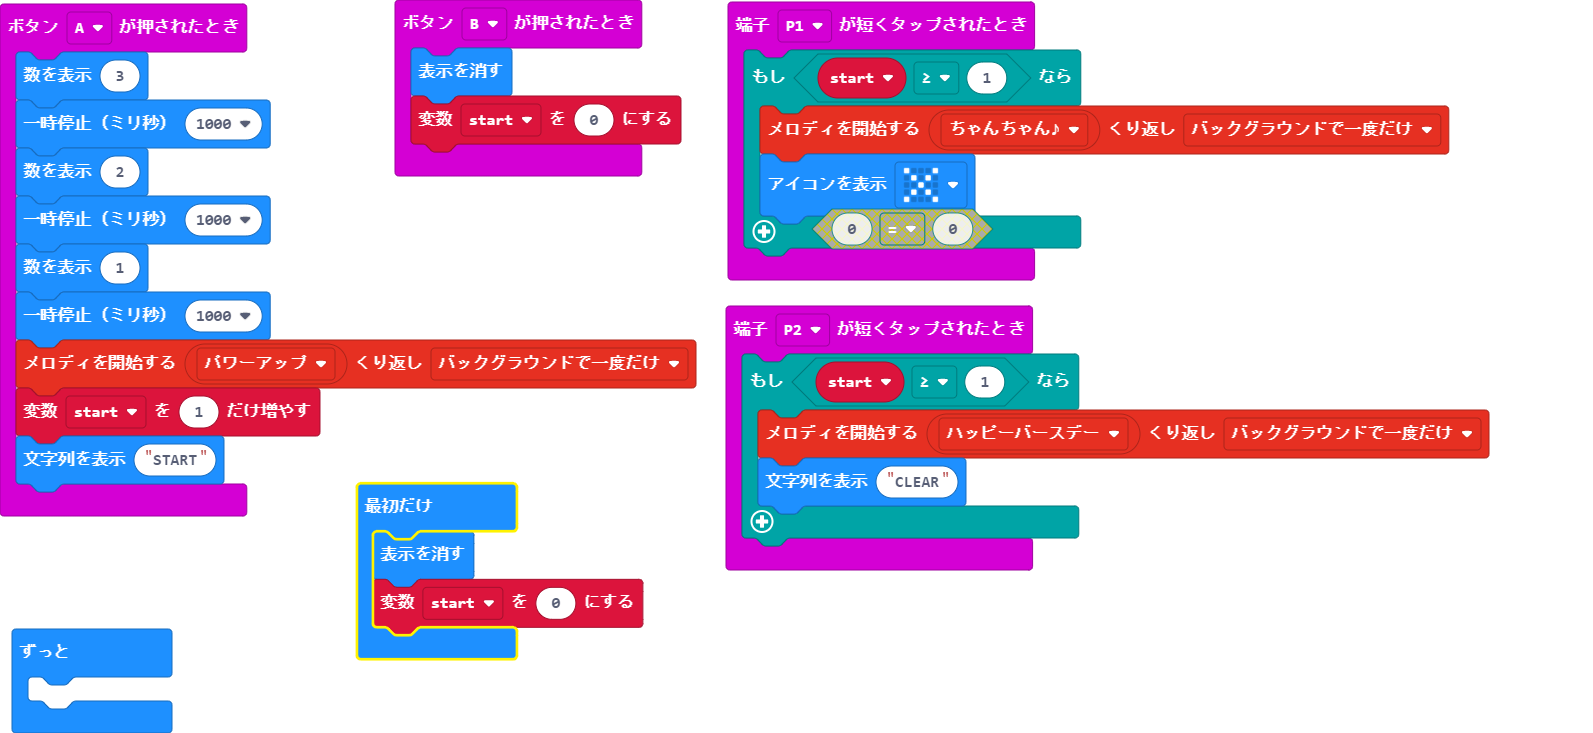
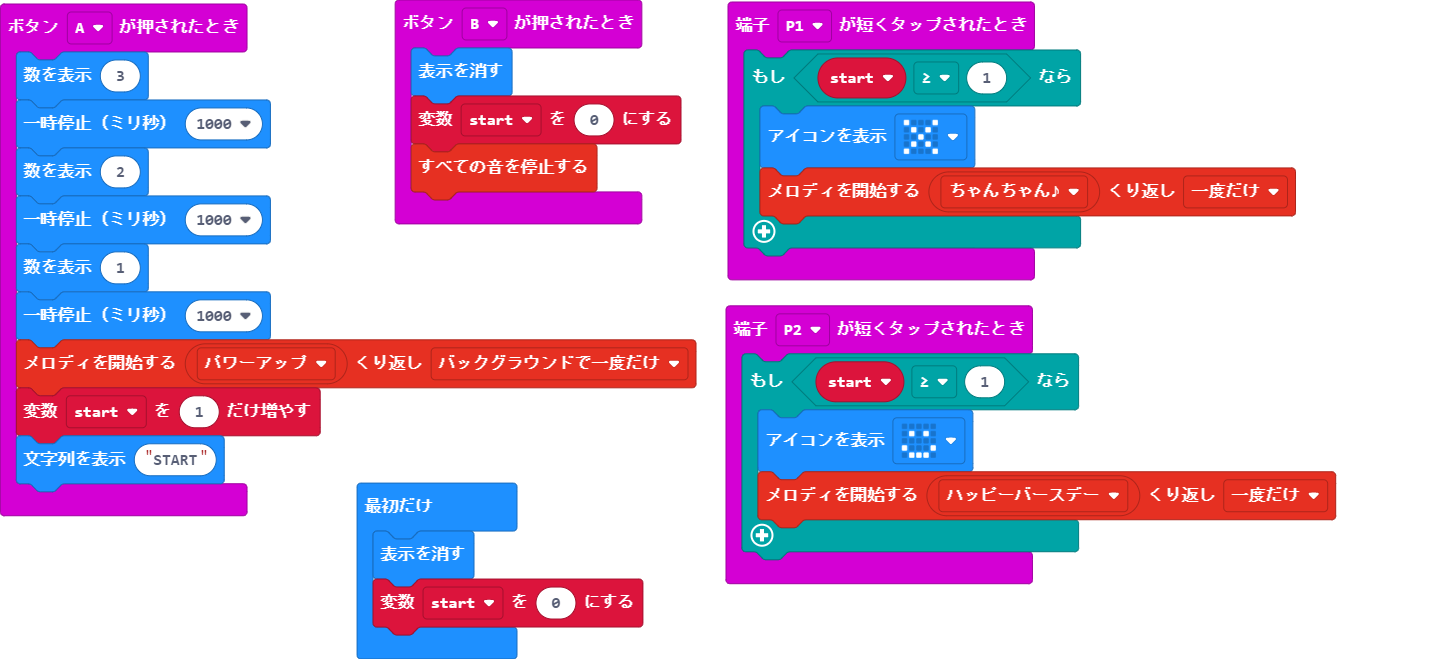
更新 main.blocks, main.ts

diff --git a/main.ts b/main.ts
@@ -11,23 +11,21 @@ input.onButtonPressed(Button.A, function () {
 })
 input.onPinPressed(TouchPin.P2, function () {
     if (start >= 1) {
-        music.startMelody(music.builtInMelody(Melodies.Birthday), MelodyOptions.OnceInBackground)
-        basic.showString("CLEAR")
+        basic.showIcon(IconNames.Happy)
+        music.startMelody(music.builtInMelody(Melodies.Birthday), MelodyOptions.Once)
     }
 })
 input.onButtonPressed(Button.B, function () {
     basic.clearScreen()
     start = 0
+    music.stopAllSounds()
 })
 input.onPinPressed(TouchPin.P1, function () {
     if (start >= 1) {
-        music.startMelody(music.builtInMelody(Melodies.Punchline), MelodyOptions.OnceInBackground)
         basic.showIcon(IconNames.No)
+        music.startMelody(music.builtInMelody(Melodies.Punchline), MelodyOptions.Once)
     }
 })
 let start = 0
 basic.clearScreen()
 start = 0
-basic.forever(function () {
-	
-})
